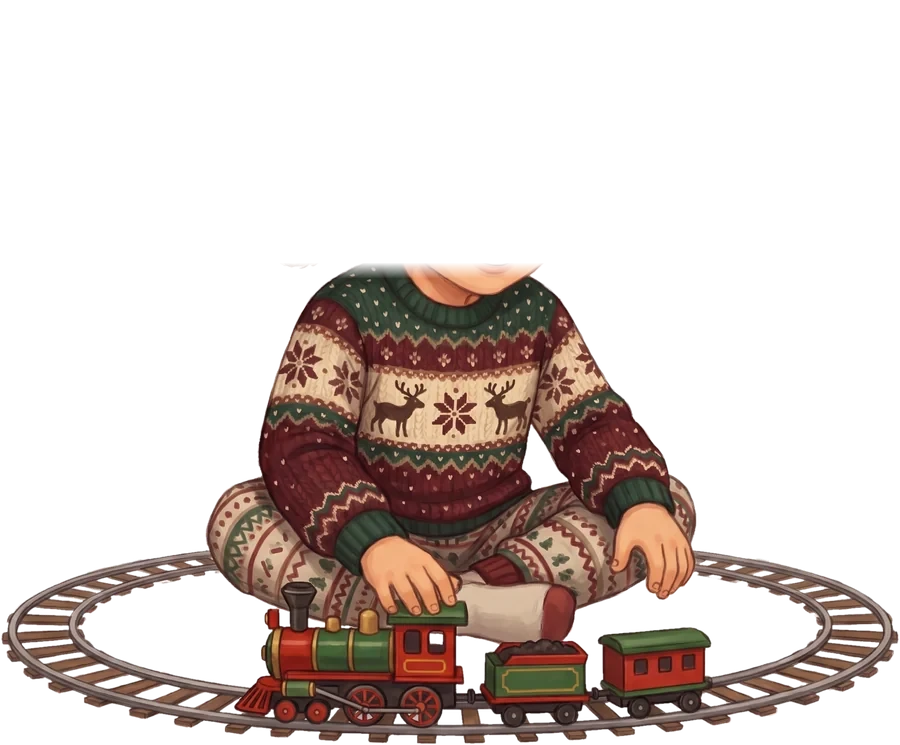
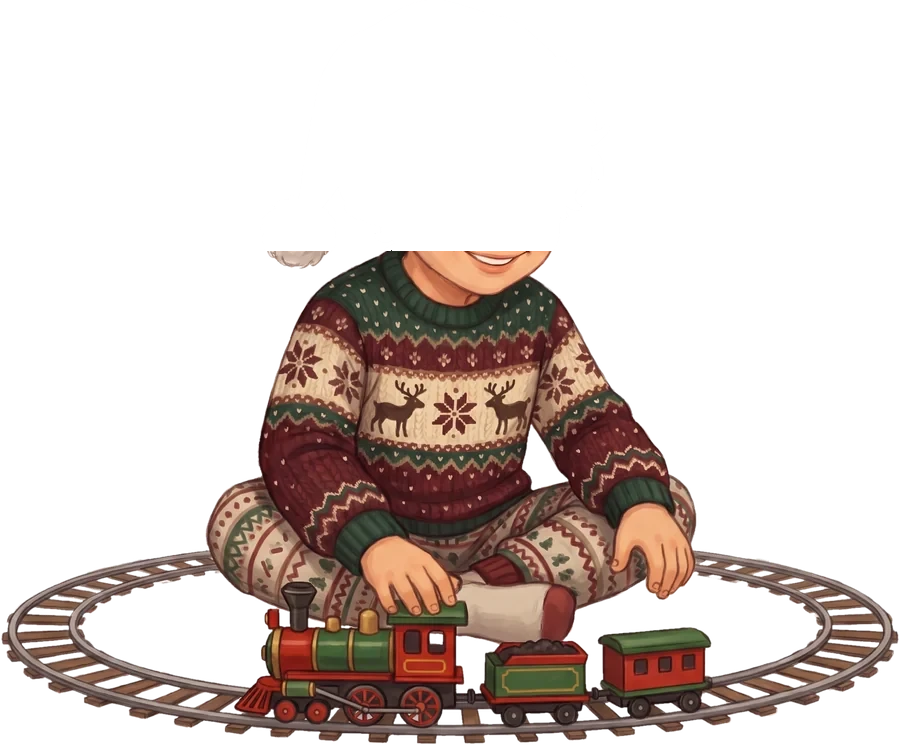
Kaka: twinkling tree lights; Mikołaj's head moves under a static collar
- Decorated tree: 69 bulbs traced from tree_deco.webp twinkle on their own rhythms.
- Mikołaj: head cut out along the sweater collar; the collar is a static layer
  on top so no seam shows on the sweater while the head tilts.

Claude-Session: https://claude.ai/code/session_016HTeTL1HdhdTLdUQNXXCi3

Changed region(s): [[0.28, 0.3396, 0.6222, 0.3705]]

diff --git a/kaka/index.html b/kaka/index.html
@@ -59,8 +59,9 @@ img{user-select:none;-webkit-user-drag:none}
 #oMik{left:23.5%;bottom:1%;width:21%;aspect-ratio:900/745;z-index:3}
 #oMik img{filter:drop-shadow(0 .4cqw .6cqw rgba(0,0,0,.35))}
 /* Mikołaj plays: his head tilts and bobs while the train and track stay put */
-#oMik .mHead{height:auto;bottom:auto;transform-origin:53% 96%;animation:mHead 3.4s ease-in-out infinite;filter:none}
-@keyframes mHead{0%,100%{transform:rotate(0) translateY(0)}18%{transform:rotate(-3deg) translateY(0)}36%{transform:rotate(-1deg) translateY(-1.2%)}44%{transform:rotate(1deg) translateY(-3%)}52%{transform:rotate(.5deg) translateY(0)}72%{transform:rotate(3.2deg)}86%{transform:rotate(1.5deg)}}
+#oMik .mHead,#oMik .mCollar{height:auto;bottom:auto;filter:none}
+#oMik .mHead{transform-origin:52% 86%;animation:mHead 3.4s ease-in-out infinite}
+@keyframes mHead{0%,100%{transform:rotate(0) translateY(0)}18%{transform:rotate(-2.2deg)}36%{transform:rotate(-.6deg) translateY(-.8%)}44%{transform:rotate(.6deg) translateY(-2%)}52%{transform:rotate(.3deg) translateY(0)}72%{transform:rotate(2.4deg)}86%{transform:rotate(1deg)}}
 #oMik .todo{right:30%;top:0}
 #presents{position:absolute;left:4%;bottom:9%;width:15%;z-index:2;pointer-events:none;filter:drop-shadow(0 .3cqw .5cqw rgba(0,0,0,.3))}
 .trainCv{background:#b98352;touch-action:none;width:auto!important;max-width:100%;max-height:min(calc(52*var(--vh)),460px);margin:0 auto}
@@ -96,6 +97,11 @@ img{user-select:none;-webkit-user-drag:none}
 #lightsWindow.twinkle{animation-duration:3.3s;animation-delay:-1.1s}
 @keyframes tw{0%{filter:brightness(1) drop-shadow(0 0 .25cqw #ffe9a0)}9%{filter:brightness(1.45) drop-shadow(0 0 .9cqw #ffd77a)}17%{filter:brightness(1.05) drop-shadow(0 0 .3cqw #ffe9a0)}31%{filter:brightness(1.3) drop-shadow(0 0 .7cqw #ffe9a0)}38%{filter:brightness(.92) drop-shadow(0 0 .2cqw #ffe9a0)}55%{filter:brightness(1.5) drop-shadow(0 0 1cqw #ffcf6a)}63%{filter:brightness(1.1) drop-shadow(0 0 .4cqw #ffe9a0)}79%{filter:brightness(1.35) drop-shadow(0 0 .8cqw #ffe9a0)}88%{filter:brightness(.97) drop-shadow(0 0 .25cqw #ffe9a0)}100%{filter:brightness(1) drop-shadow(0 0 .25cqw #ffe9a0)}}
 #treeDeco{animation:treeglow 3.1s linear infinite}
+/* twinkling bulbs on the decorated tree (positions traced from the garland lights in tree_deco.webp) */
+#treeTw{position:absolute;top:0;bottom:0;left:50%;height:100%;aspect-ratio:611/1000;transform:translateX(-50%);pointer-events:none;transition:opacity .8s}
+#treeTw i{position:absolute;width:3.2%;aspect-ratio:1;transform:translate(-50%,-50%);border-radius:50%;background:radial-gradient(circle,#fffbe6 0 22%,rgba(255,226,140,.75) 40%,rgba(255,200,90,0) 72%);mix-blend-mode:screen;animation:tw 2.4s ease-in-out infinite;opacity:.15}
+#treeTw i.w{background:radial-gradient(circle,#fff 0 22%,rgba(255,240,200,.7) 40%,rgba(255,230,170,0) 72%)}
+@keyframes tw{0%,100%{opacity:.1;transform:translate(-50%,-50%) scale(.7)}45%{opacity:1;transform:translate(-50%,-50%) scale(1.25)}60%{opacity:.85}}
 @keyframes treeglow{0%,100%{filter:brightness(1)}18%{filter:brightness(1.12) drop-shadow(0 0 .6cqw rgba(255,220,130,.6))}35%{filter:brightness(1.02)}52%{filter:brightness(1.16) drop-shadow(0 0 .8cqw rgba(255,220,130,.7))}70%{filter:brightness(1.04)}86%{filter:brightness(1.1) drop-shadow(0 0 .5cqw rgba(255,220,130,.5))}}
 #snowWin{position:absolute;left:42%;top:16.5%;width:22.5%;height:37%;pointer-events:none}
 #snowWin,#dusk{-webkit-mask:url(art/window_mask.png) 0 0/100% 100% no-repeat;mask:url(art/window_mask.png) 0 0/100% 100% no-repeat}
@@ -337,9 +343,9 @@ body.short .btn{font-size:14px}
     <button id="star" class="hidden" aria-label="Pierwsza gwiazdka"><svg viewBox="0 0 100 100" aria-hidden="true"><defs><radialGradient id="sg"><stop offset="0" stop-color="#fff"/><stop offset=".12" stop-color="#fffbe8" stop-opacity=".95"/><stop offset=".35" stop-color="#dfe8ff" stop-opacity=".28"/><stop offset="1" stop-color="#dfe8ff" stop-opacity="0"/></radialGradient></defs><circle cx="50" cy="50" r="50" fill="url(#sg)"/><g class="rays" fill="#fff"><path d="M50 6 L51.2 48.8 L94 50 L51.2 51.2 L50 94 L48.8 51.2 L6 50 L48.8 48.8Z" opacity=".75"/><path d="M50 26 L50.7 49.3 L74 50 L50.7 50.7 L50 74 L49.3 50.7 L26 50 L49.3 49.3Z" opacity=".5" transform="rotate(45 50 50)"/></g><circle cx="50" cy="50" r="4.5" fill="#fff"/></svg></button>
     <img id="lightsWindow" class="hidden twinkle" src="art/lights.webp" alt="">
 
-    <button class="obj" id="oTree" data-task="tree" aria-label="Choinka"><img id="treeBare" src="art/tree_bare.webp" alt=""><img id="treeDeco" src="art/tree_deco.webp" alt="" style="opacity:0"><span class="tag">🎄 Choinka</span><span class="todo">!</span></button>
+    <button class="obj" id="oTree" data-task="tree" aria-label="Choinka"><img id="treeBare" src="art/tree_bare.webp" alt=""><img id="treeDeco" src="art/tree_deco.webp" alt="" style="opacity:0"><span id="treeTw" aria-hidden="true" style="opacity:0"></span><span class="tag">🎄 Choinka</span><span class="todo">!</span></button>
     <img id="presents" class="hidden" src="art/presents.webp" alt="Prezenty pod choinką">
-    <button class="obj" id="oMik" data-task="train" aria-label="Mikołaj: pociąg"><img src="art/mik_body.webp" alt="Mikołaj bawi się kolejką"><img class="mHead" src="art/mik_head.webp" alt=""><span class="tag">🚂 Pociąg Mikołaja</span><span class="todo">!</span></button>
+    <button class="obj" id="oMik" data-task="train" aria-label="Mikołaj: pociąg"><img src="art/mik_body.webp" alt="Mikołaj bawi się kolejką"><img class="mHead" src="art/mik_head.webp" alt=""><img class="mCollar" src="art/mik_collar.webp" alt=""><span class="tag">🚂 Pociąg Mikołaja</span><span class="todo">!</span></button>
     <button class="obj" id="oFire" data-task="lights" aria-label="Kominek: lampki"><span class="tag">💡 Lampki z Kaczorem</span><span class="todo">!</span></button>
     <button class="obj hotbox" id="oPoster" data-task="quiz" aria-label="Plakat z zamkiem: quiz"><span class="tag">🏰 Quiz z Kaczorem</span><span class="todo">!</span></button>
     <div id="stockings" class="hidden" aria-label="Skarpety na kominku"><img class="st st1" src="art/stocking.webp" alt=""><img class="st st2" src="art/stocking.webp" alt=""><img class="st st3" src="art/stocking.webp" alt=""></div>
@@ -504,7 +510,7 @@ function render(){
   $('#listCount').textContent=`${TASKS.filter(x=>done[x.id]).length}/${TASKS.length}`;
   const show=(sel,on)=>$(sel).classList.toggle('hidden',!on);
   show('#cookies',done.bake); show('#presents',done.train); show('#stockings',done.lights); show('#lightsWindow',done.lights);
-  $('#treeDeco').style.opacity=done.tree?1:0; $('#treeBare').style.opacity=done.tree?0:1;
+  $('#treeDeco').style.opacity=done.tree?1:0; $('#treeTw').style.opacity=done.tree?1:0; $('#treeBare').style.opacity=done.tree?0:1;
   $('#tableSet').style.opacity=done.table?1:0; $('#tableEmpty').style.opacity=done.table?0:1;
   document.querySelectorAll('.obj[data-task]').forEach(o=>o.classList.toggle('done',!!done[o.dataset.task]));
   const all=TASKS.every(x=>done[x.id]);
@@ -1026,8 +1032,12 @@ function goFull(){ if(!matchMedia('(pointer:coarse)').matches) return; const d=d
     c.globalCompositeOperation='source-over'; }
   requestAnimationFrame(loop);
 })();
+// tree lights: one twinkle per traced bulb, each with its own rhythm
+(function(){ const P=[[75.6, 74.7], [39.6, 32.5], [51.6, 47.5], [82.5, 74.9], [79.7, 55.5], [18.1, 76.5], [12.5, 71.4], [37.5, 55.4], [84.9, 71.6], [63.7, 38.4], [46.7, 36.3], [45.1, 50.3], [56.9, 39.4], [71.1, 61.4], [34.8, 49.3], [42.5, 58.2], [28.4, 74.4], [78.8, 57.6], [47.4, 64.0], [57.6, 76.4], [43.4, 79.2], [48.4, 38.4], [76.2, 59.0], [55.1, 24.7], [53.9, 61.0], [51.5, 77.3], [23.1, 55.6], [33.6, 58.7], [67.1, 62.1], [39.8, 64.1], [66.4, 75.0], [60.1, 25.0], [63.3, 58.8], [57.6, 46.0], [48.6, 60.9], [35.3, 75.8], [16.0, 73.8], [38.8, 61.6], [56.6, 59.0], [50.0, 24.5], [53.4, 38.2], [30.3, 59.8], [61.7, 63.2], [61.6, 73.5], [67.0, 36.0], [48.8, 18.4], [51.5, 17.4], [52.4, 29.0], [27.2, 35.8], [76.9, 67.2], [65.0, 80.2], [15.7, 63.0], [78.8, 39.5], [46.4, 59.6], [48.9, 56.0], [87.3, 62.4], [25.1, 80.8], [73.6, 76.0], [57.5, 32.5], [53.4, 53.5], [75.6, 56.6], [48.7, 30.3], [34.9, 67.1], [37.6, 77.2], [44.5, 20.9], [54.4, 27.4], [70.8, 65.5], [24.2, 76.5], [42.2, 63.1]], box=$('#treeTw');
+  P.forEach(([x,y],i)=>{ const e=document.createElement('i'); e.style.left=x+'%'; e.style.top=y+'%';
+    if(i%3===0) e.className='w'; e.style.animationDuration=(1.6+Math.random()*2.4).toFixed(2)+'s'; e.style.animationDelay=(-Math.random()*4).toFixed(2)+'s'; box.append(e); }); })();
 (function preload(){
-  const imgs=['room','title','stocking','loco_top','wagon_top','kaka','kaka_face','kaczor_face','kaka_cheer','kaczor','kaczor_sleep','mikolaj','mik_body','mik_head','tree_bare','tree_deco','table_empty','table_set','lights','presents','gift','cookies_on_sideboard','wigilia'].map(n=>'art/'+n+'.webp');
+  const imgs=['room','title','stocking','loco_top','wagon_top','kaka','kaka_face','kaczor_face','kaka_cheer','kaczor','kaczor_sleep','mikolaj','mik_body','mik_head','mik_collar','tree_bare','tree_deco','table_empty','table_set','lights','presents','gift','cookies_on_sideboard','wigilia'].map(n=>'art/'+n+'.webp');
   const auds=['audio/music.mp3','audio/intro.mp3','audio/kaczor_intro.mp3','audio/hub.mp3'];
   let ok=0; const total=imgs.length+auds.length;
   const tick=()=>{ ok++; const pct=Math.round(ok/total*100); $('#gFill').style.width=pct+'%'; $('#gTxt').textContent=`Wczytywanie… ${pct}%`; if(ok===total) ready(); };
